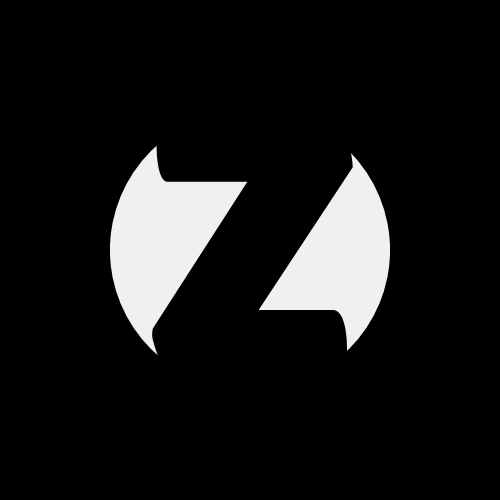
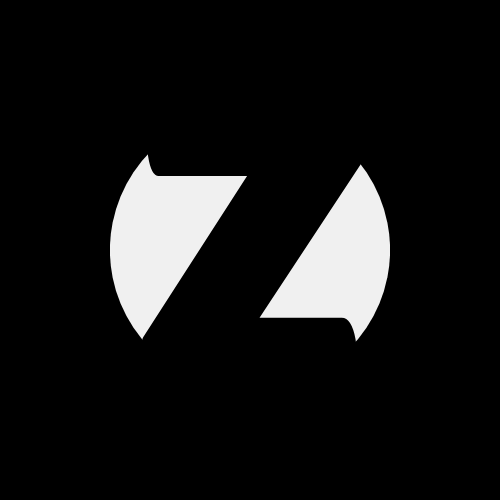
ZAP Videos

diff --git a/src/Components/Home.jsx b/src/Components/Home.jsx
@@ -1,6 +1,6 @@
 import { IoIosSearch } from "react-icons/io";
 import { BsSlashSquare } from "react-icons/bs";
-import zapLogo from '../Images/z-png.png'
+import zapLogo from '../Images/zap-png.png'
 
 const Home = () => {
     return (
@@ -8,7 +8,7 @@ const Home = () => {
             <div id="home-blured" className="w-[100%] h-[100%] flex items-center justify-center">
                 <div>
                     <div className="flex items-center justify-center mb-6">
-                        <img src={zapLogo} alt="zap-logo" className="md:w-[150px] w-[80px] md:h-[150px] h-[80px]" />
+                        <img src={zapLogo} alt="zap-logo" className="md:w-[150px] w-[80px] md:h-[130px] h-[60px]" />
                     </div>
                     <h2 className="uppercase font-bold text-grayed xs:text-xl text-md text-center" style={{ wordSpacing: '5px' }}>fast than youtube</h2>
                     <h1 id="home-gradient-txt" className="text-center md:text-7xl xs:text-5xl sx:text-3xl text-2xl font-bold mt-4">Search anything with ZAP</h1>

diff --git a/public/index.html b/public/index.html
@@ -4,7 +4,7 @@
 <head>
   <meta charset="UTF-8">
   <meta name="viewport" content="width=device-width, initial-scale=1.0">
-  <link rel="shortcut icon" href="./z-png.png" type="image/x-icon">
+  <link rel="shortcut icon" href="./zap-png.png" type="image/x-icon">
   <title>ZAP || © Yahyobek</title>
 </head>
 
